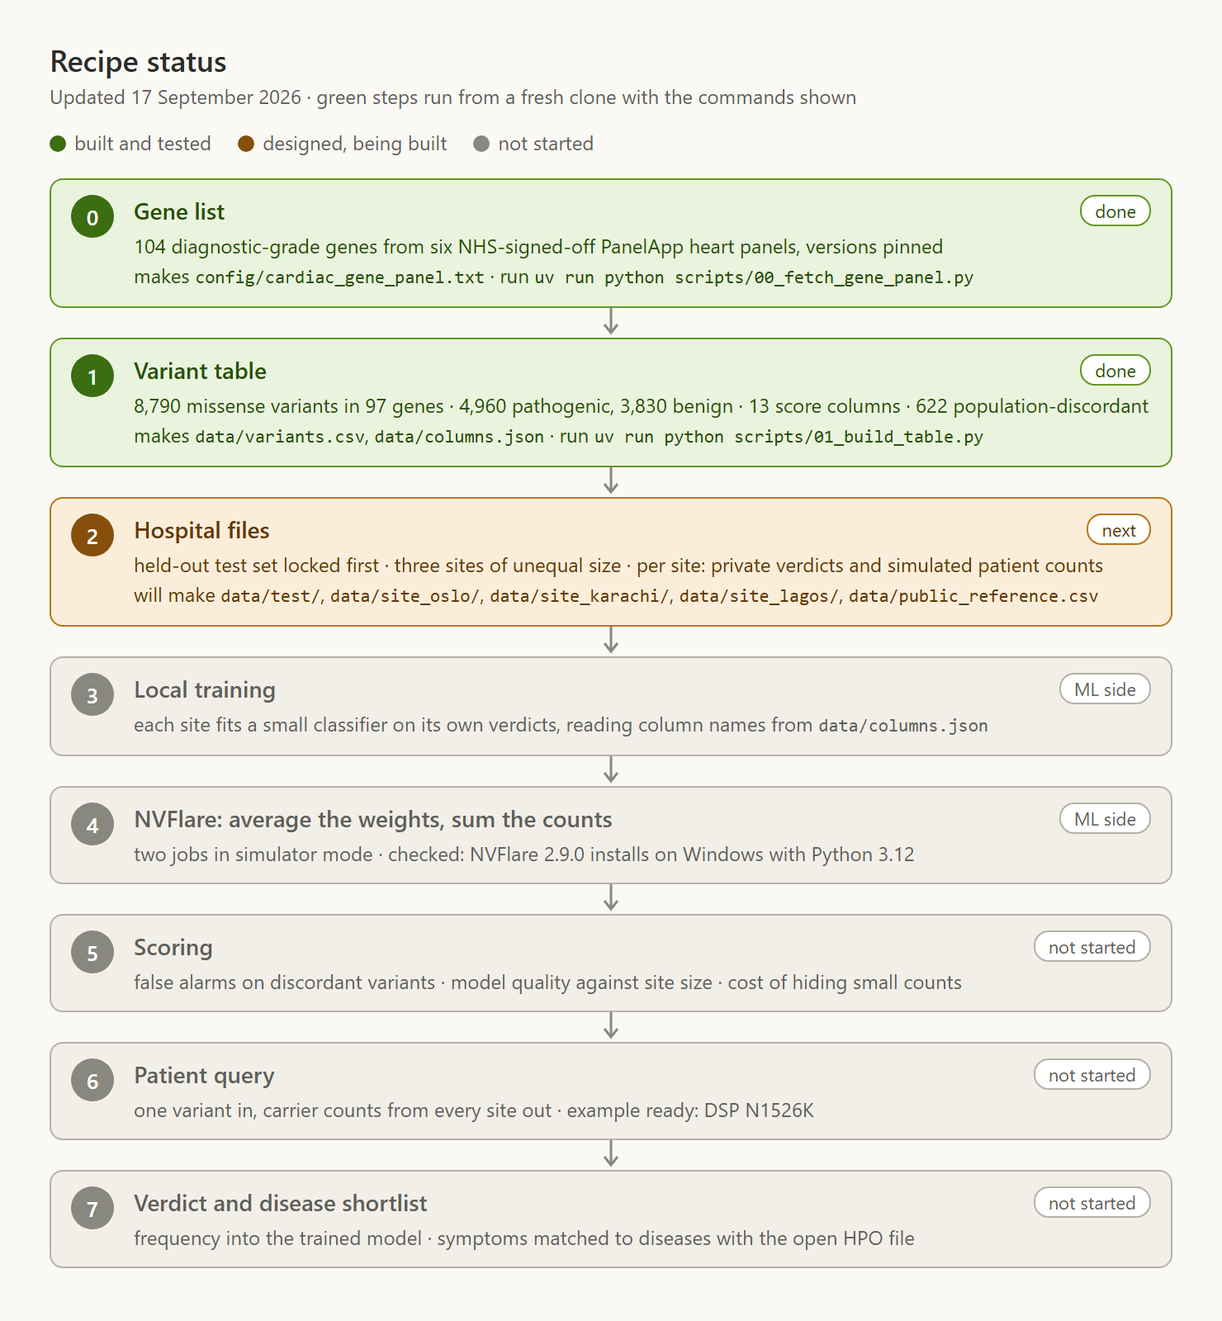
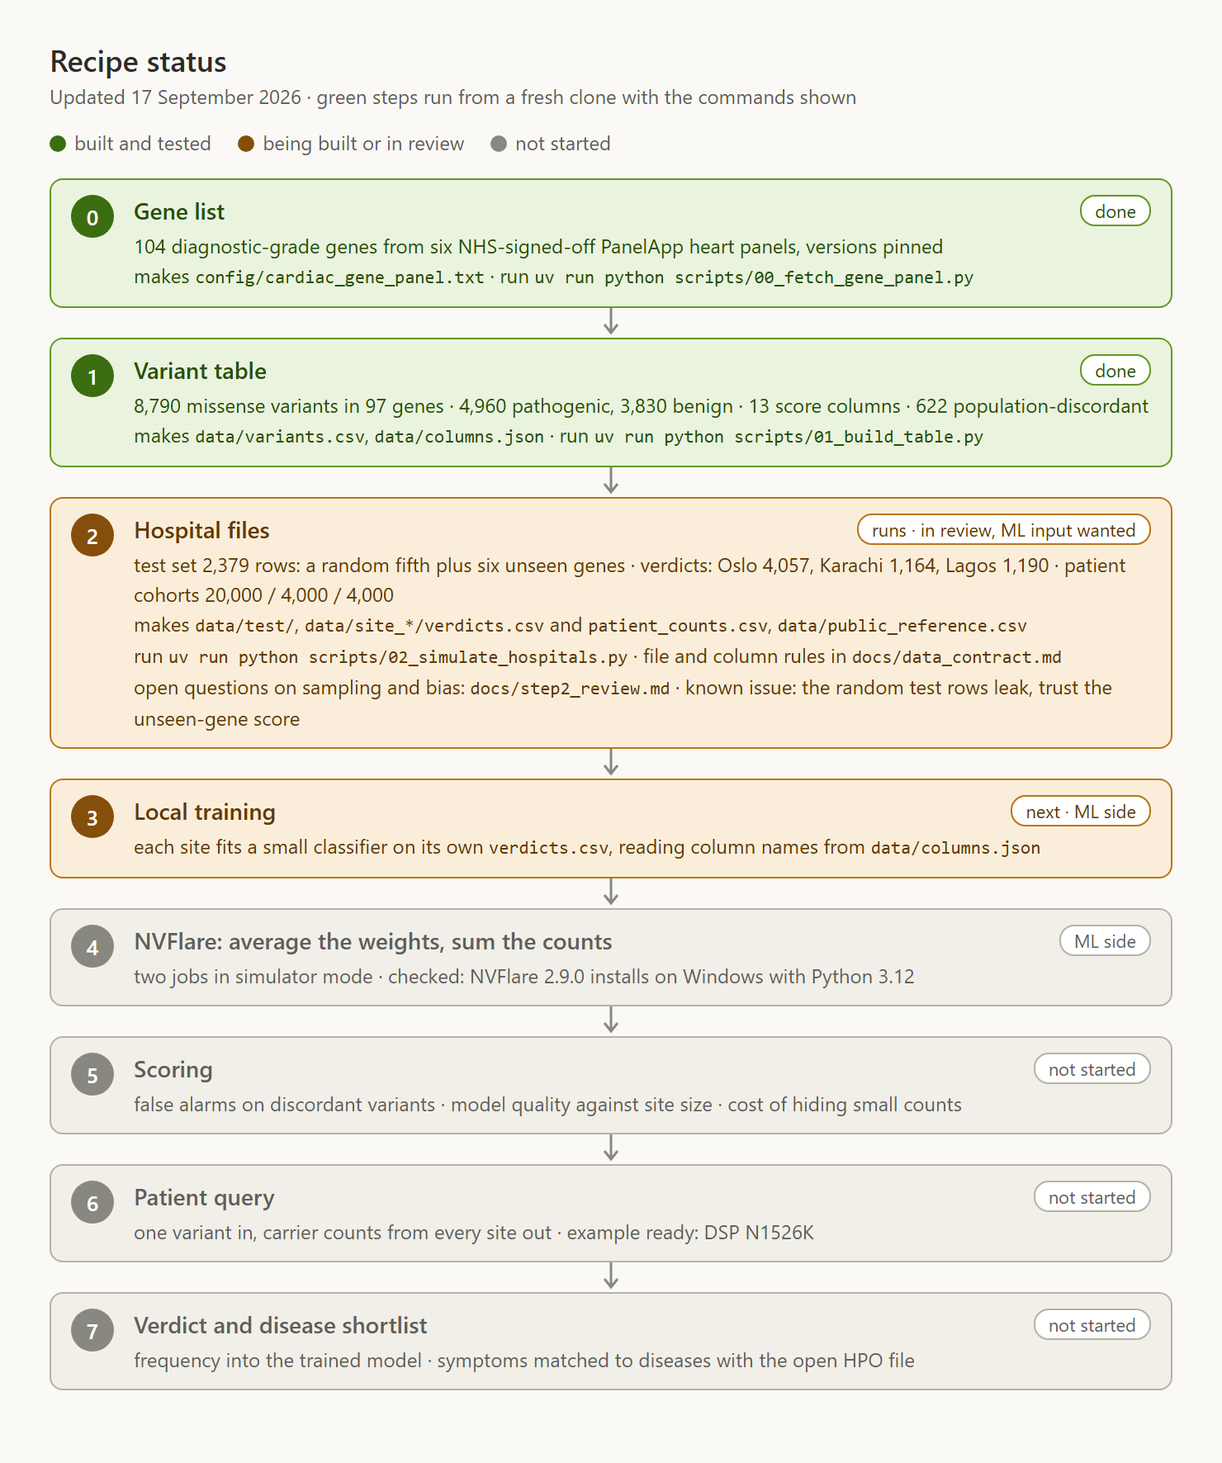
Document step 2 and open it for review by the ML side
Add the data contract (every file and column, and what may be trained on) and
a review page listing each sampling choice and the known concerns, first among
them that 39% of the random test rows share a gene and position with a training
row. Step 2 stays amber in the status picture until the ML side has weighed in.

diff --git a/docs/recipe_status.html b/docs/recipe_status.html
@@ -4,11 +4,11 @@
 
   TO UPDATE: each step below is one <div class="step ...">.
     class="step done"   green  built and tested
-    class="step next"   amber  designed, being built
+    class="step next"   amber  being built, or built and in review
     class="step todo"   grey   not started
   Change that one word, edit the text lines, change the date, then re-render:
 
-  chrome --headless=new --hide-scrollbars --force-device-scale-factor=2 --window-size=740,800 --screenshot=docs/recipe_status.png docs/recipe_status.html
+  chrome --headless=new --hide-scrollbars --force-device-scale-factor=2 --window-size=740,886 --screenshot=docs/recipe_status.png docs/recipe_status.html
 -->
 <html lang="en">
 <head>
@@ -45,7 +45,7 @@
 <p class="date">Updated 17 September 2026 · green steps run from a fresh clone with the commands shown</p>
 <div class="legend">
   <span><span class="dot" style="background:#3B6D11"></span>built and tested</span>
-  <span><span class="dot" style="background:#854F0B"></span>designed, being built</span>
+  <span><span class="dot" style="background:#854F0B"></span>being built or in review</span>
   <span><span class="dot" style="background:#888780"></span>not started</span>
 </div>
 
@@ -64,15 +64,17 @@
 <div class="arrow"><svg width="12" height="18"><path d="M6 0V14M2 10L6 15L10 10" fill="none" stroke="#888780" stroke-width="1.5"/></svg></div>
 
 <div class="step next"><div class="num">2</div><div class="body">
-  <span class="pill">next</span><p class="title">Hospital files</p>
-  <p class="line">held-out test set locked first · three sites of unequal size · per site: private verdicts and simulated patient counts</p>
-  <p class="line">will make <code>data/test/</code>, <code>data/site_oslo/</code>, <code>data/site_karachi/</code>, <code>data/site_lagos/</code>, <code>data/public_reference.csv</code></p>
+  <span class="pill">runs · in review, ML input wanted</span><p class="title">Hospital files</p>
+  <p class="line">test set 2,379 rows: a random fifth plus six unseen genes · verdicts: Oslo 4,057, Karachi 1,164, Lagos 1,190 · patient cohorts 20,000 / 4,000 / 4,000</p>
+  <p class="line">makes <code>data/test/</code>, <code>data/site_*/verdicts.csv</code> and <code>patient_counts.csv</code>, <code>data/public_reference.csv</code></p>
+  <p class="line">run <code>uv run python scripts/02_simulate_hospitals.py</code> · file and column rules in <code>docs/data_contract.md</code></p>
+  <p class="line">open questions on sampling and bias: <code>docs/step2_review.md</code> · known issue: the random test rows leak, trust the unseen-gene score</p>
 </div></div>
 <div class="arrow"><svg width="12" height="18"><path d="M6 0V14M2 10L6 15L10 10" fill="none" stroke="#888780" stroke-width="1.5"/></svg></div>
 
-<div class="step todo"><div class="num">3</div><div class="body">
-  <span class="pill">ML side</span><p class="title">Local training</p>
-  <p class="line">each site fits a small classifier on its own verdicts, reading column names from <code>data/columns.json</code></p>
+<div class="step next"><div class="num">3</div><div class="body">
+  <span class="pill">next · ML side</span><p class="title">Local training</p>
+  <p class="line">each site fits a small classifier on its own <code>verdicts.csv</code>, reading column names from <code>data/columns.json</code></p>
 </div></div>
 <div class="arrow"><svg width="12" height="18"><path d="M6 0V14M2 10L6 15L10 10" fill="none" stroke="#888780" stroke-width="1.5"/></svg></div>
 

diff --git a/README.md b/README.md
@@ -131,15 +131,24 @@ Join three public sources by variant. Every hospital will use exactly these colu
 
 ### Step 2. Lock a test set first, then split the rest into hospitals
 
-The held-out rows are set aside before anything else and are never trained on. The remaining rows are dealt out to three site folders. Same columns, different rows, and each site keeps only the AF column that matches its own population. Rows are sampled weighted by that population's real gnomAD frequencies, so each site looks like a hospital serving that population.
+The test set is locked before anything else and is never trained on. It is a random fifth of the variants, plus every variant of six whole genes that no hospital gets, so we can also ask whether the model works on a gene it has never seen.
 
-| `data/site_oslo` | | | | `data/site_karachi` | | | | `data/site_lagos` | | |
-|---|---|---|---|---|---|---|---|---|---|---|
-| variant | AF NFE | label | | variant | AF SAS | label | | variant | AF AFR | label |
-| R403Q | 0 | 1 | | R92W | 0 | 1 | | N1526K | .152 | 0 |
-| I3716V | .019 | 0 | | I3716V | .041 | 0 | | R403Q | 0 | 1 |
+The rest is dealt out to three hospitals of unequal size. A real hospital keeps two things private, and we imitate both:
 
-The same variant has the same scores and the same label everywhere. The only cell that differs per hospital is the frequency, because "how common is this" depends on whose patients you count.
+- **Its verdicts**, `verdicts.csv`: real ClinVar rows. Each variant goes to exactly one hospital, and a variant common in one population mostly lands at that population's hospital.
+- **Its patients**, `patient_counts.csv`: simulated cohorts drawn from the real gnomAD frequency of that hospital's population. For every variant: copies seen, overall and split by affected and unaffected.
+
+What every hospital already shares is a public frequency reference, `af_public`. Ours covers Europeans only. That is a deliberate pretence: it stands in for the many populations that real references miss, while gnomAD's real South Asian and African columns play the truth only the local hospital can see.
+
+| hospital | population | patients | verdicts | of which population-discordant |
+|---|---|---|---|---|
+| `site_oslo` | European | 20,000 | 4,057 | 81 |
+| `site_karachi` | South Asian | 4,000 | 1,164 | 111 |
+| `site_lagos` | African | 4,000 | 1,190 | 250 |
+
+Oslo is the big lab, yet the variants where population matters sit mostly at the two small ones.
+
+A hospital's file holds the scores, the verdict, `af_public`, and `af_local`, the frequency among its own unaffected patients. It holds none of gnomAD's per-population columns. Full details, and the rules on what may be trained on, are in [docs/data_contract.md](docs/data_contract.md).
 
 ### Step 3. Each hospital trains on its own rows
 
@@ -191,7 +200,7 @@ A patient of West African ancestry at Oslo carries `DSP N1526K` and has heart sy
 
 Summed: 28% of Lagos patients carry it, sick and healthy alike. Only counts travel, never a patient record. The counts are simulated to match the real gnomAD frequencies.
 
-Query response format per site: `variant_id, AC, AN, AC_affected, AN_affected, AC_unaffected, AN_unaffected`.
+Each site answers with one row of its `patient_counts.csv`: `variant_id, ac, an, ac_affected, an_affected, ac_unaffected, an_unaffected`.
 
 ### Step 7. Verdict and shortlist
 
@@ -297,7 +306,7 @@ Scores to avoid as inputs: ClinPred, BayesDel, REVEL, MetaLR and similar meta-pr
 
 ## 8. Build status and how to run
 
-![Recipe status: steps 0 and 1 are built and tested, step 2 is next, steps 3 to 7 are not started](docs/recipe_status.png)
+![Recipe status: steps 0 and 1 are built and tested, step 2 runs and is in review, steps 3 to 7 are not started](docs/recipe_status.png)
 
 Green means the step runs from a fresh clone with the command shown. To update the picture, open [docs/recipe_status.html](docs/recipe_status.html), change a step's one-word status (`todo`, `next` or `done`), and re-render with the command at the top of that file.
 
@@ -308,11 +317,14 @@ uv sync
 uv run python scripts/00_fetch_gene_panel.py        # step 0, the gene list from PanelApp (already committed)
 uv run python scripts/01_build_table.py             # step 1, about 4 minutes, then cached
 uv run python scripts/01_build_table.py --refresh   # re-download from myvariant.info
+uv run python scripts/02_simulate_hospitals.py      # step 2, a few seconds, same result every time
 ```
 
 **Step 1 is built.** It writes `data/variants.csv` and `data/columns.json`, the list of columns later steps should read instead of hard-coding. The table opens in Excel with the readable columns first: name, gene, verdict, stars, then the three site frequencies. Every column is explained in plain language in [docs/table_columns.md](docs/table_columns.md). `data/` is git-ignored because the upstream scores carry non-commercial terms, so we share the recipe and not the table.
 
-What came out on 17 September 2026:
+**Step 2 runs and is open for review.** The sampling choices were made on the data side, so before anyone trains on these files we want input from the ML side: [docs/step2_review.md](docs/step2_review.md) lists every choice and the concerns we already know about, including one to fix first (the random part of the test set leaks; trust the unseen-gene score until then). It locks the test set and writes each hospital's two private files. The seed is fixed, so the whole team works with the same hospitals, and the script ends by confirming that your build is identical to the team's reference in `config/reference_build.json`. The one thing that can break that is myvariant.info updating its data between two people's downloads; the script detects it and says what to do. [docs/data_contract.md](docs/data_contract.md) lists every file and column and says what may be trained on.
+
+What step 1 produced on 17 September 2026:
 
 | | |
 |---|---|
@@ -337,6 +349,8 @@ What the real data told us:
 
 - Real data is the signal. Simulated data is scaffolding (sites, patient). Never train on simulated labels.
 - Open data only: every source downloads without a login or registration.
+- Counts among unaffected patients are drawn from real population frequencies only and may be used as evidence. Counts among affected patients are generated from the verdict, so they are for the query demo and never a model input.
+- The public reference covers Europeans only, as a stand-in for populations real references miss. We say so wherever we show a result.
 - Any hand-edited "spiked" frequencies live only in the step 6 patient demo, never in the rows the AUC is computed on.
 - Goal B "same frequency, different effect" is shown as "the query supports it," not measured; we have no real carrier-outcome data.
 - If FedAvg blurs population differences, add per-population AF and the patient's population as input features (the population-aware column of the grid).

diff --git a/docs/data_contract.md b/docs/data_contract.md
@@ -1,0 +1,108 @@
+# Data contract: what each file is, and what you may train on
+
+Steps 1 and 2 write everything below into `data/`. The seed is fixed and package versions are locked, so everyone who starts from the same downloaded table gets byte-identical files, on Windows, Mac or Linux.
+
+Step 2 ends by telling you whether your build is **identical to the team's reference**, recorded in `config/reference_build.json`. It can differ for one reason only: step 1 downloads from a live API, and myvariant.info may have updated its data since the reference was made. If that happens the script says so and tells you what to do.
+
+```
+uv run python scripts/01_build_table.py
+uv run python scripts/02_simulate_hospitals.py
+```
+
+```
+data/
+  variants.csv                  the full table from step 1. Reference only, see rule 1
+  columns.json                  which columns are scores, frequencies and label
+  public_reference.csv          the frequency every hospital already has
+  sites.json                    settings and sizes of this run
+  test/variants.csv             locked test set, never trained on
+  site_oslo/verdicts.csv        Oslo's private classified variants
+  site_oslo/patient_counts.csv  Oslo's private carrier counts
+  site_karachi/...              same two files
+  site_lagos/...                same two files
+```
+
+> **In review.** The sampling choices in step 2 are open for input from the ML side, see [step2_review.md](step2_review.md). Known issue: 39% of the `random` test rows share a gene and amino-acid position with a training row, so that part of the test set flatters the model. Until it is fixed, trust the `unseen_gene` score.
+
+## Three rules
+
+1. **Train only on `site_*/verdicts.csv`.** Never on `test/variants.csv`, and never on `variants.csv`, because that file still contains the test rows. The "everything pooled" baseline is the three `verdicts.csv` files stacked.
+2. **Model inputs are the score columns listed under `features` in `columns.json`, plus `af_public` or `af_local`.** Nothing else. `label` is the answer.
+3. **Never feed `ac_affected` or `an_affected` to a model.** Those counts were generated using the verdict, so they give the answer away. They exist to demonstrate the patient query.
+
+## The files
+
+### `site_*/verdicts.csv`: a hospital's private classified variants
+
+One row per variant. Every variant belongs to exactly one hospital. A variant common in one population mostly landed at that population's hospital, so the three files differ in kind, not only in size.
+
+| column | meaning | use |
+|---|---|---|
+| `name`, `gene` | readable name and gene | reading only |
+| `verdict`, `label` | ClinVar's verdict in words, and as 1 or 0 | **the answer** |
+| `stars` | how well reviewed the verdict is, 1 to 4 | optional row weight |
+| `af_public` | frequency in the public reference. Ours covers Europeans only | input |
+| `af_local` | frequency among this hospital's own unaffected patients | input |
+| 13 score columns | see `table_columns.md` | inputs, listed in `columns.json` |
+| `variant_id`, `clinvar_id` | exact DNA change, ClinVar id | key |
+
+The hospital files deliberately contain no gnomAD per-population columns. A hospital only knows the public reference and its own patients.
+
+### `site_*/patient_counts.csv`: a hospital's private carrier counts
+
+One row for every variant in the whole table, test variants included, because patients carry what they carry whether or not anyone has classified it. This is also exactly what a hospital returns when queried about a variant in step 6.
+
+| column | meaning |
+|---|---|
+| `variant_id`, `name` | which variant |
+| `ac`, `an` | copies of the variant seen, out of gene copies looked at (two per patient) |
+| `ac_unaffected`, `an_unaffected` | the same among patients without heart disease. **Fair evidence:** drawn from the real population frequency only, knows nothing about the verdict |
+| `ac_affected`, `an_affected` | the same among heart patients. **Demo only, see rule 3** |
+
+### `test/variants.csv`: the locked test set
+
+All columns of `variants.csv`, plus `af_public`, plus `test_kind`:
+
+- `random`: a random fifth of the variants, with the same mix of verdicts and of population-discordant variants as the training rows.
+- `unseen_gene`: every variant of six whole genes that no hospital has. This answers "does the model work on a gene it has never seen?", which guards against a model that merely recognises genes.
+
+This file keeps gnomAD's real `af_nfe`, `af_sas`, `af_afr`. They are the truth to score against, not inputs a hospital would have.
+
+### `public_reference.csv`
+
+`variant_id`, `af_public`. The European frequency, for every variant.
+
+## Scoring a test variant under different evidence
+
+The same trained model can be given different frequency evidence. This is the comparison that shows what federation buys.
+
+| setting | frequency given to the model | where it comes from |
+|---|---|---|
+| today's world | `af_public` | `test/variants.csv` |
+| own hospital only | that site's `ac_unaffected / an_unaffected` | that site's `patient_counts.csv` |
+| federated | the sites' unaffected counts combined, for example the highest site frequency with a minimum count | all three `patient_counts.csv`, counts only |
+| ceiling | the highest of `af_nfe`, `af_sas`, `af_afr` | `test/variants.csv`, not allowed in real life |
+
+On `pop_discordant == 1` test rows, which are almost all benign, report the false-alarm rate rather than AUC.
+
+## What is real and what is simulated
+
+| real | simulated |
+|---|---|
+| every verdict, score and gnomAD frequency | which hospital holds which verdict |
+| the gene list | every patient count |
+| | the public reference covering Europeans only. That is a deliberate pretence, standing in for the many populations real references miss. gnomAD's real South Asian and African columns play the truth only the local hospital can see |
+
+## This run
+
+Seed 12. Settings sit at the top of `scripts/02_simulate_hospitals.py`.
+
+| | population | patients | verdicts | pathogenic | benign | population-discordant |
+|---|---|---|---|---|---|---|
+| `site_oslo` | European | 20,000 | 4,057 | 2,632 | 1,425 | 81 |
+| `site_karachi` | South Asian | 4,000 | 1,164 | 609 | 555 | 111 |
+| `site_lagos` | African | 4,000 | 1,190 | 569 | 621 | 250 |
+
+Test set: 2,379 rows. 1,602 random, 777 from the unseen genes CACNA1C, COL5A2, DMD, MYBPC3, TNNI3, TNNT2.
+
+Patient settings are illustrative, not estimates: 15% of each cohort are heart patients, a fifth of those are explained by one pathogenic variant, and pathogenic variants are five times more common among the affected.

diff --git a/docs/step2_review.md b/docs/step2_review.md
@@ -1,0 +1,75 @@
+# Step 2 is open for review: input wanted from the ML side
+
+Step 2 (`scripts/02_simulate_hospitals.py`) locks the test set and creates the three hospitals. It runs and is reproducible, but the sampling choices were made on the data side. Before anyone trains on these files, we would like the people with ML experience to look at how the split is made. This page lists what it does, every choice that can be changed, and the concerns we already know about.
+
+Background reading: [data_contract.md](data_contract.md) for the files and columns, [table_columns.md](table_columns.md) for the variant table.
+
+## What it does, in five lines
+
+1. Reads the variant table: 8,790 real, labelled variants.
+2. Locks a test set: six whole genes no hospital gets, plus a random fifth of the rest.
+3. Deals every remaining row to exactly one hospital. Rows are copied unaltered. A variant common in one population mostly lands at that population's hospital; a variant nobody has seen goes anywhere, in proportion to lab size.
+4. Simulates each hospital's patient cohort from its population's real gnomAD frequencies, giving carrier counts per variant.
+5. Gives each hospital row two frequencies: `af_public` (European reference) and `af_local` (its own unaffected patients).
+
+Only the counts are invented. Verdicts, scores and population frequencies are real.
+
+## The choices, and the question for each
+
+All of these are constants at the top of the script.
+
+| setting | now | question |
+|---|---|---|
+| `TEST_SHARE` | 0.20, stratified by verdict and by the population-discordant flag | right size? right strata? |
+| `UNSEEN_GENES` | 6, picked at random once among genes with at least 10 of each verdict | better as k-fold over genes, so the score does not hinge on one draw? |
+| one hospital per variant | yes, no overlap | real labs overlap. Does a clean partition matter for FedAvg, or should common variants appear at several sites? |
+| population pull in the dealing | proportional to each population's share of carriers | this sets how non-IID the sites are. Do you want a dial from fully random to fully population-driven, e.g. as the control experiment? |
+| `verdict_share` | Oslo 0.70, Karachi 0.15, Lagos 0.15 | are the small sites small enough to show a federated gain? Should we sweep the size? |
+| cohort sizes | 20,000 / 4,000 / 4,000 patients | with cohorts this big `af_local` is almost exactly the true frequency (r = 1.00). Smaller cohorts would make local evidence noisier and the federated sum more valuable |
+| `SEED` | 12, a single run | several seeds for error bars? |
+| public reference | European frequency only | a deliberate pretence, see the data contract. Acceptable framing? |
+
+## Known concerns
+
+**1. The random part of the test set leaks. This is the one to fix first.**
+39% of the `random` test rows (619 of 1,602) sit at the same gene and amino-acid position as a training row, for example two different DNA changes that both give `ACTA2 M46I`. Their scores are near-identical and they usually share a verdict. The `unseen_gene` part has no such overlap (0 of 777). Until fixed, trust the unseen-gene score. Proposed fix: split by gene plus position, so all variants at one position stay together.
+
+**2. The unseen-gene test is dominated by one gene.**
+DMD is 411 of its 777 rows and 95% benign. The other five genes have 59 to 99 rows each. A per-gene score, or k-fold over genes, would be more honest than one pooled number.
+
+| unseen gene | rows | pathogenic |
+|---|---|---|
+| DMD | 411 | 20 |
+| COL5A2 | 99 | 14 |
+| CACNA1C | 75 | 38 |
+| TNNI3 | 69 | 44 |
+| MYBPC3 | 64 | 34 |
+| TNNT2 | 59 | 48 |
+
+**3. Labels track genes.**
+Three genes supply 45% of all pathogenic rows and five supply 41% of the benign ones. A model can look good by recognising the gene. This is why the unseen-gene test exists; it may also argue for leaving gene-level scores such as `mpc` and `bstatistic` out, or at least checking their importance.
+
+**4. The hospitals differ in verdict mix, not only in population.**
+Benign variants are the ones with a measurable frequency, so population-weighted dealing pulls them to the small sites: Oslo is 65% pathogenic, Karachi 52%, Lagos 48%, the test set 48%. Realistic, but it is label skew on top of feature skew.
+
+**5. Missing scores.**
+39% of training rows lack at least one of the 13 recommended scores. Almost all of that is `polyphen2_hdiv` (31% missing in the training rows; it scraped under the 30% limit on the full table). The rest are under 10%. Either drop that column or decide how to fill gaps without hospitals sharing statistics, for example a fixed constant plus a "was missing" flag.
+
+**6. Frequency columns are mostly zero.**
+`af_local` is 0 for 84% of Oslo's rows, 75% of Karachi's and 66% of Lagos's. Any log transform needs a floor, e.g. `log10(af + 1e-6)`.
+
+**7. The population-discordant test rows are all benign.**
+180 of them (110 random, 70 unseen-gene), none pathogenic. AUC is meaningless there. Use the false-alarm rate under the four evidence settings in the data contract.
+
+**8. Expect the headline comparison to be flat.**
+A small model on 13 scores saturates with a few hundred rows, and "common means harmless" is the same rule in every population. Single-site, federated and pooled AUC will probably land close together. The result we expect to be large is the false-alarm rate: public-only evidence against federated counts. Worth designing the experiments around that rather than being surprised by it.
+
+**9. Counts among affected patients give the answer away.**
+`ac_affected` was generated from the verdict. It is for the patient-query demo only and must never be a model input. Counts among unaffected patients are safe.
+
+## How to respond
+
+- Tell us in the team chat, or edit this page.
+- Or change the settings yourself: edit the constants at the top of `scripts/02_simulate_hospitals.py`, rerun, then run it once more with `--set-reference` and commit `config/reference_build.json`. That puts the whole team back on identical data.
+
+Once the ML side is happy with the split, step 2 turns green in [recipe_status.png](recipe_status.png).
